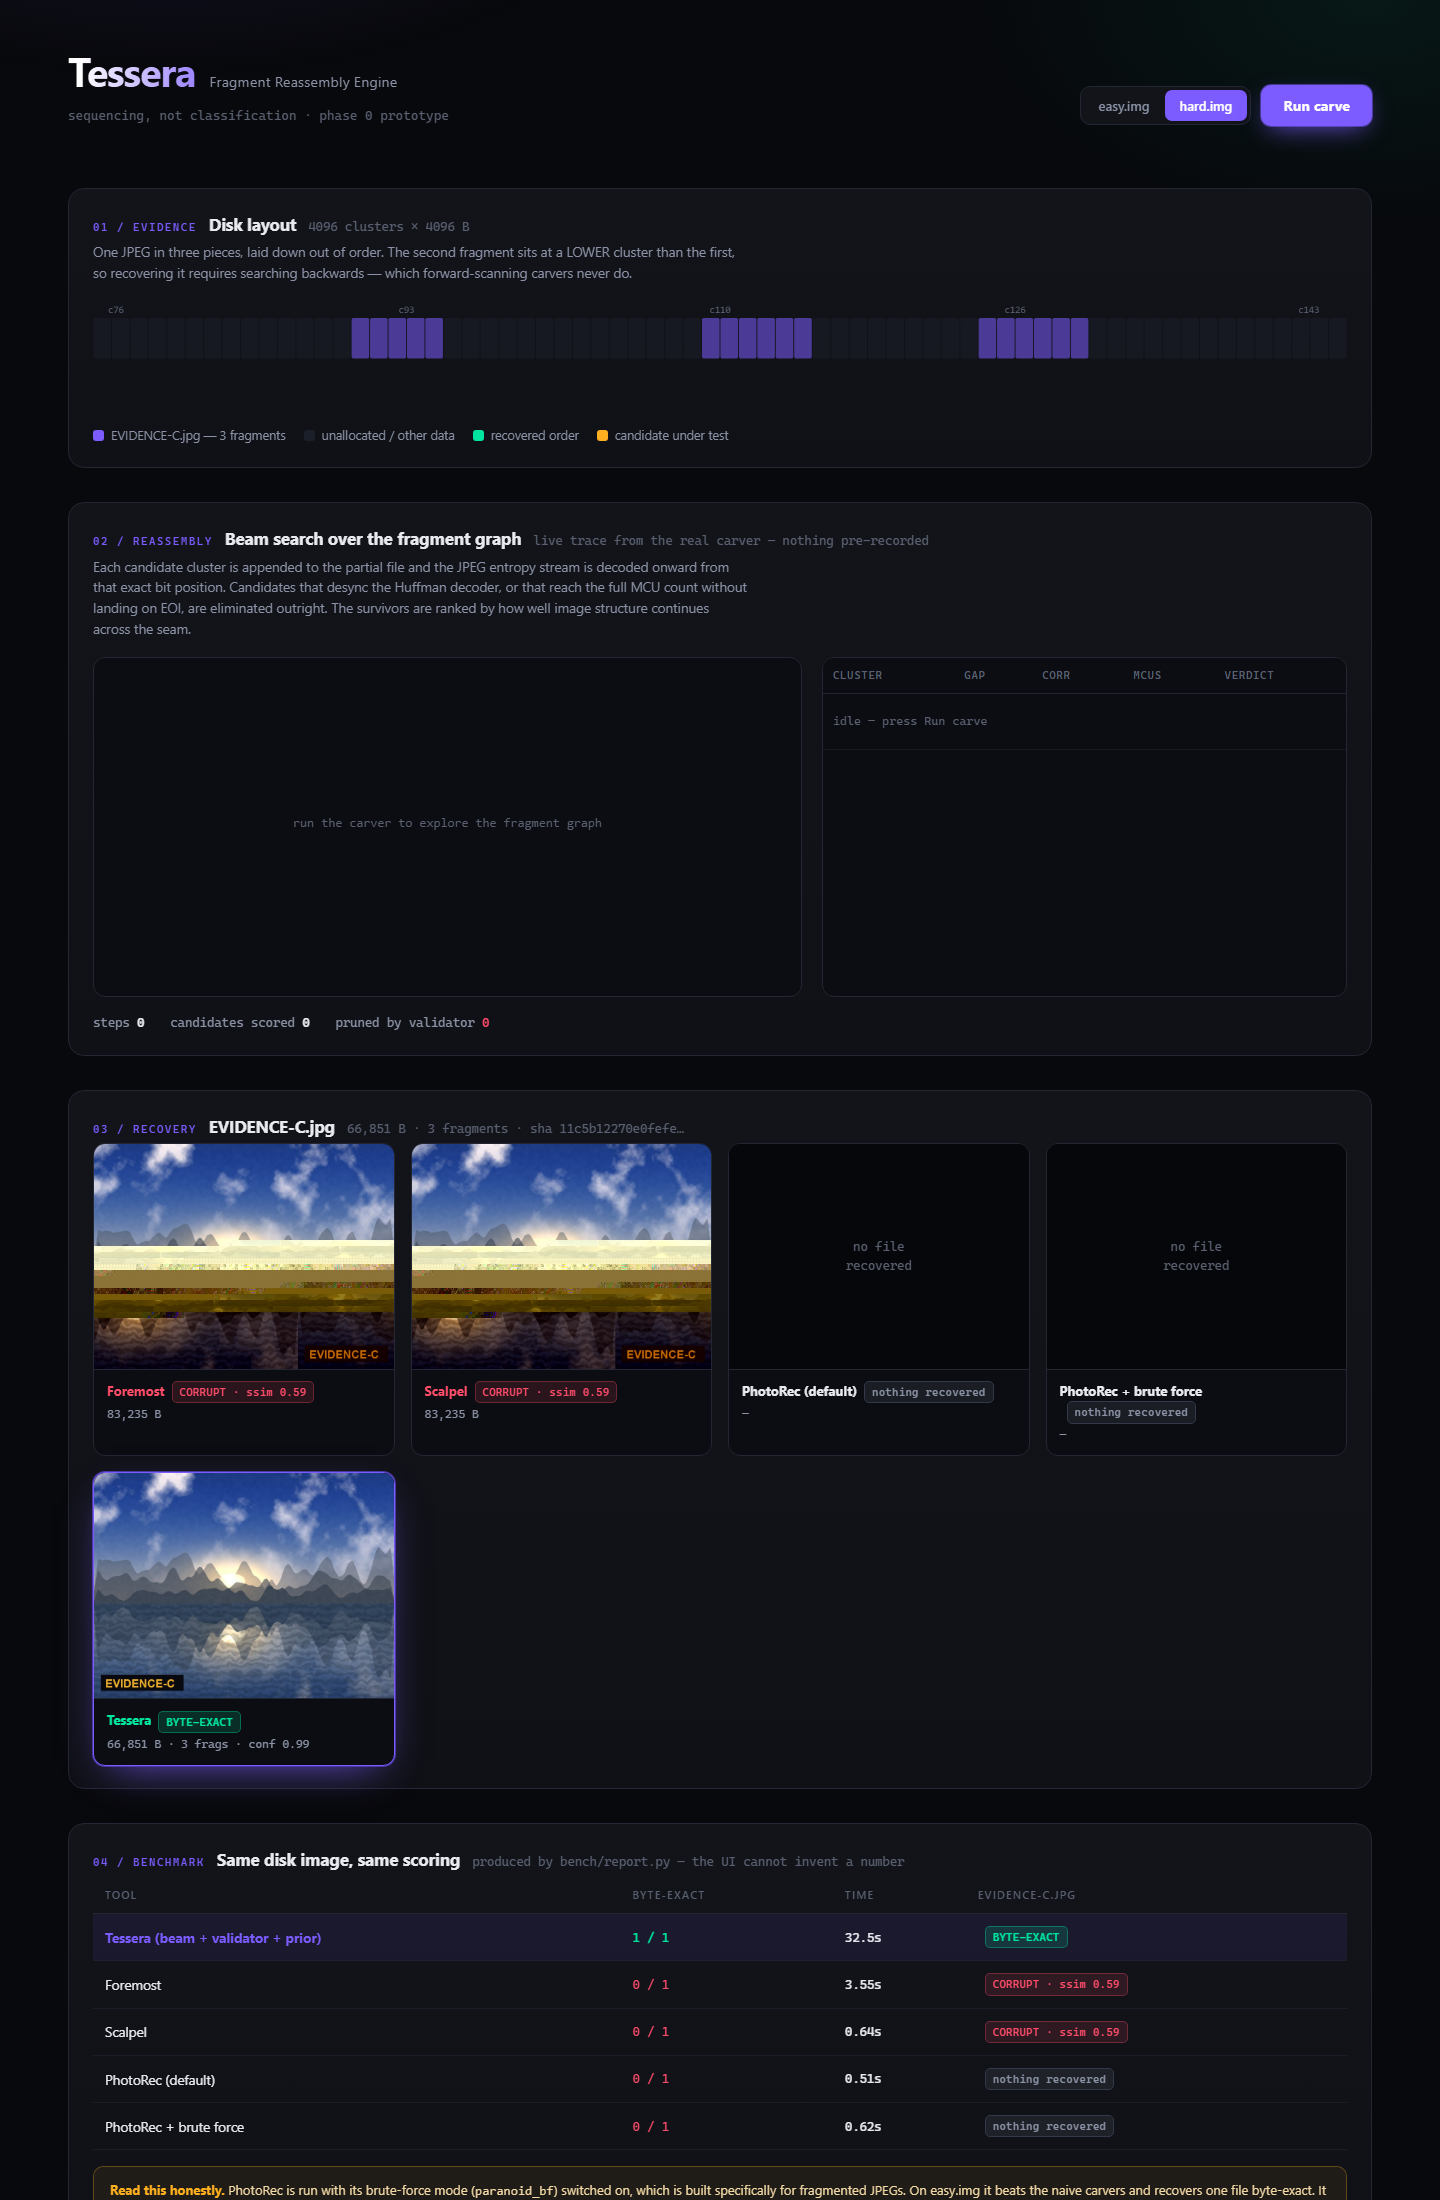
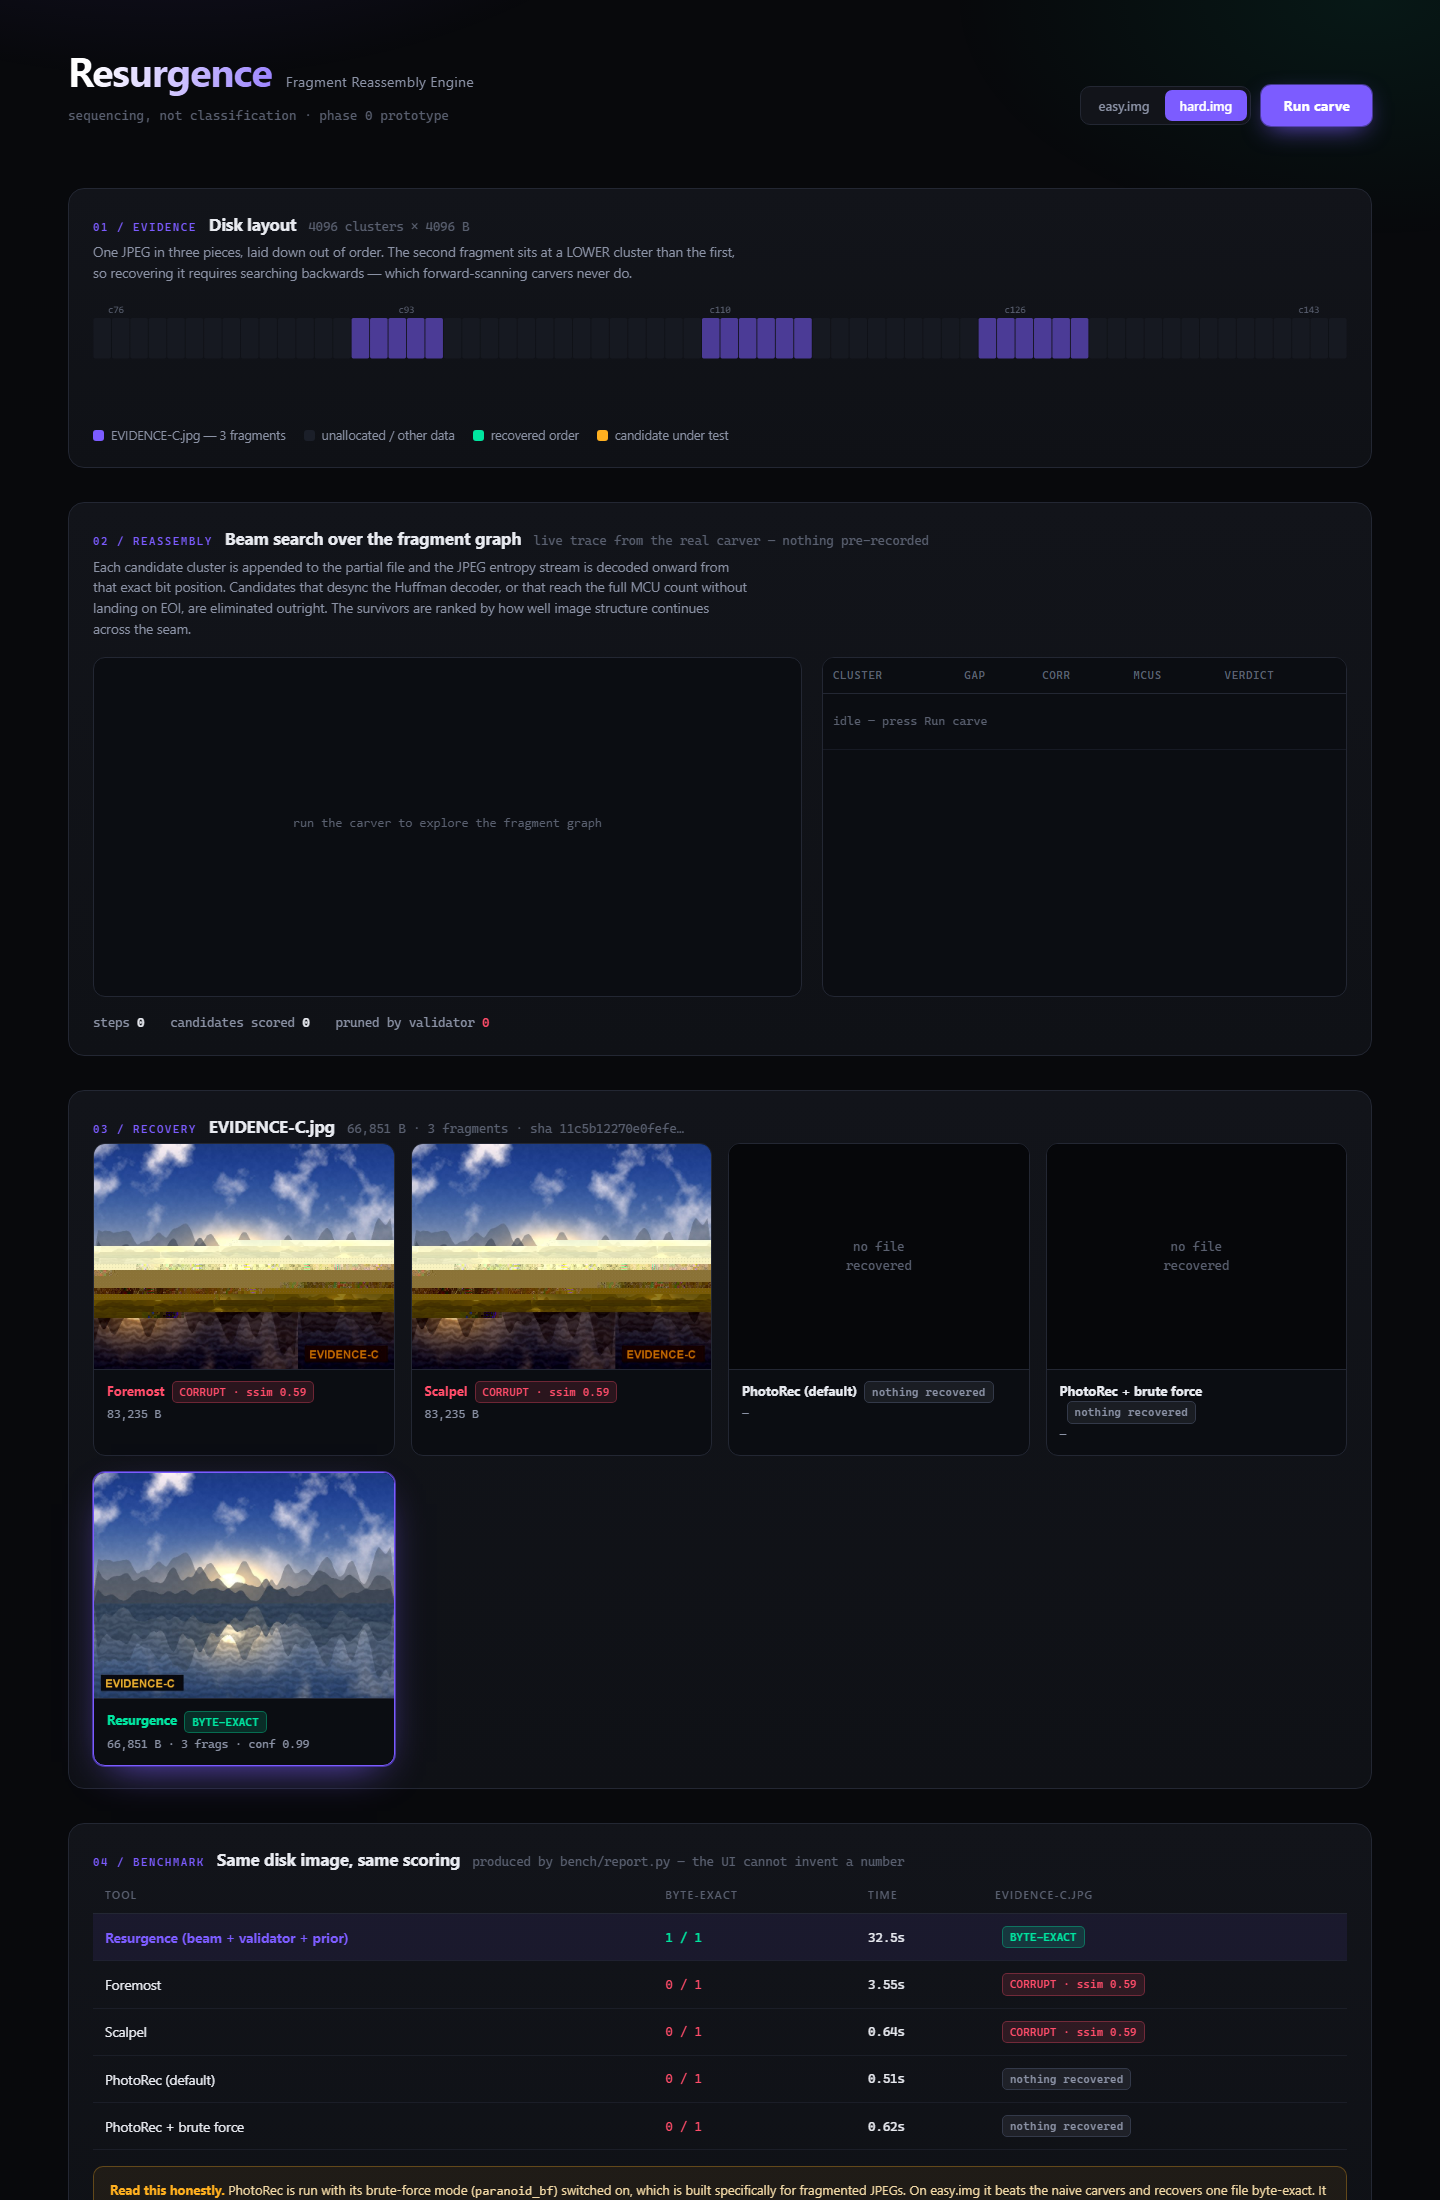
Regenerate screenshots under the Resurgence name, and fix the README title
The screenshots still showed the previous name because the earlier rename
changed the code but never recaptured the images. That mismatch is what
made the project look like it had two names at once.

Both images recaptured from the running UI, and the README title matches
the rest of the document again.

diff --git a/README.md b/README.md
@@ -1,4 +1,4 @@
-# Tessera Forensics
+# Resurgence
 
 **Recover files that should not be gone. Destroy files that should be. Prove both.**
 
